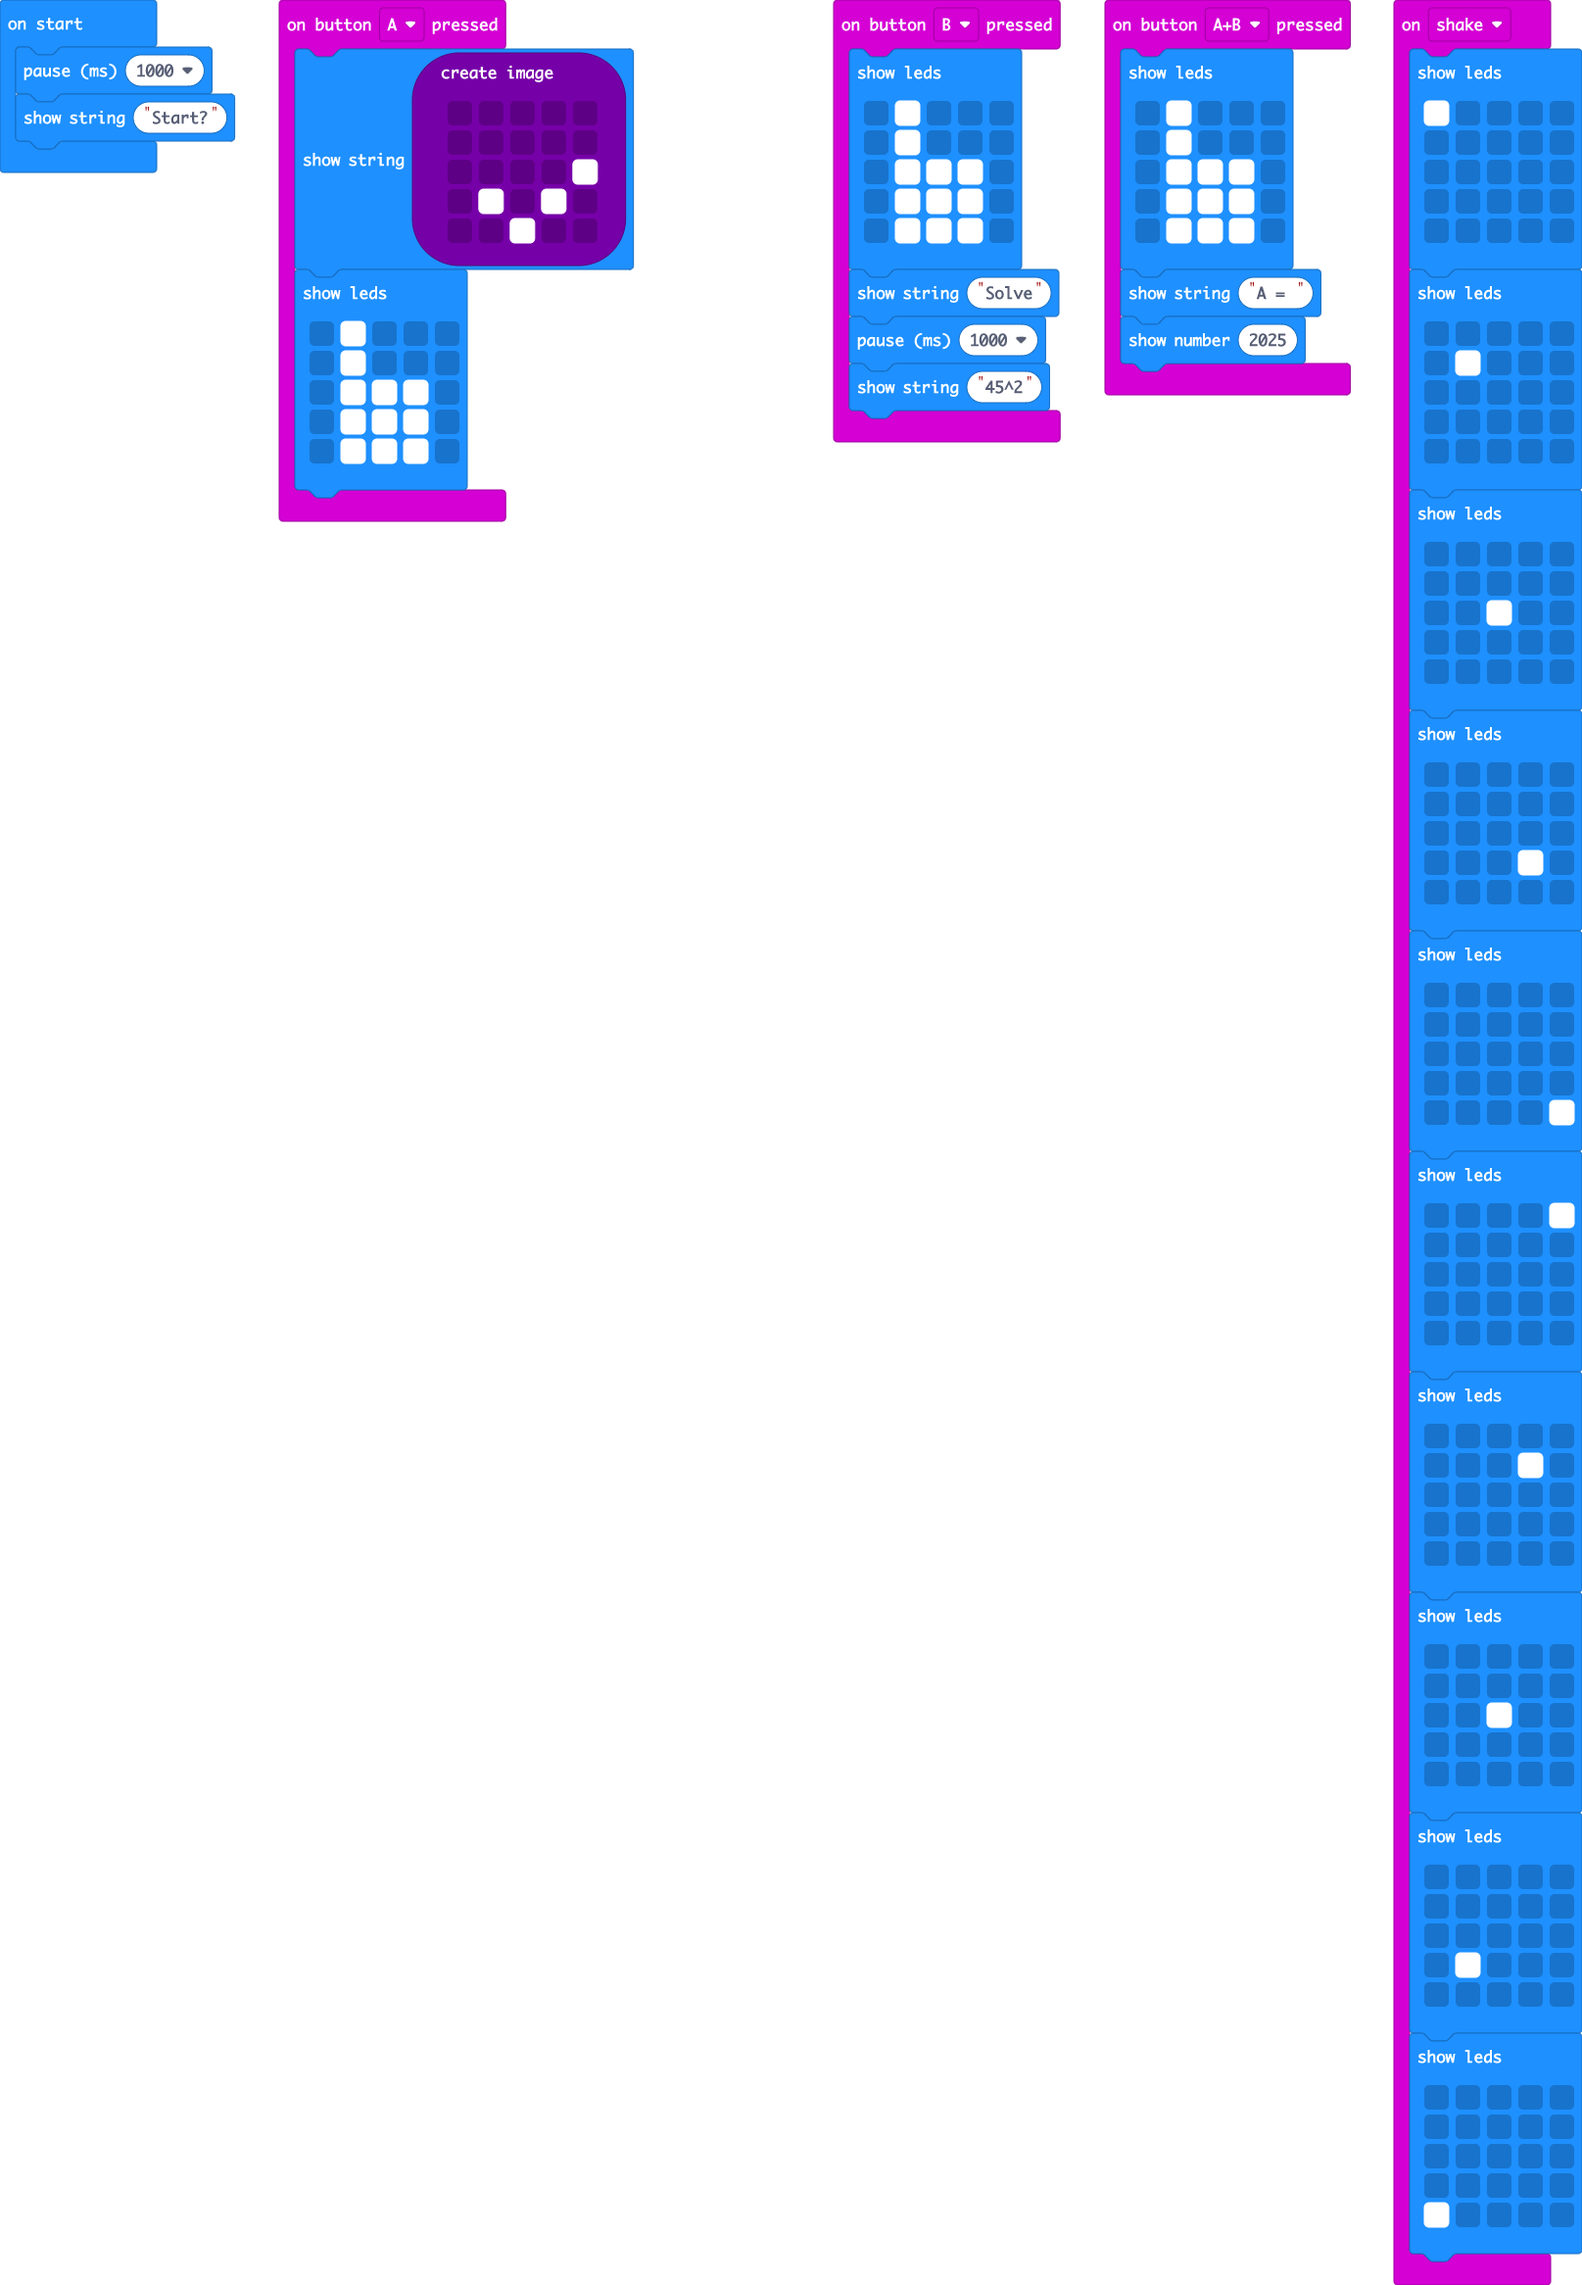
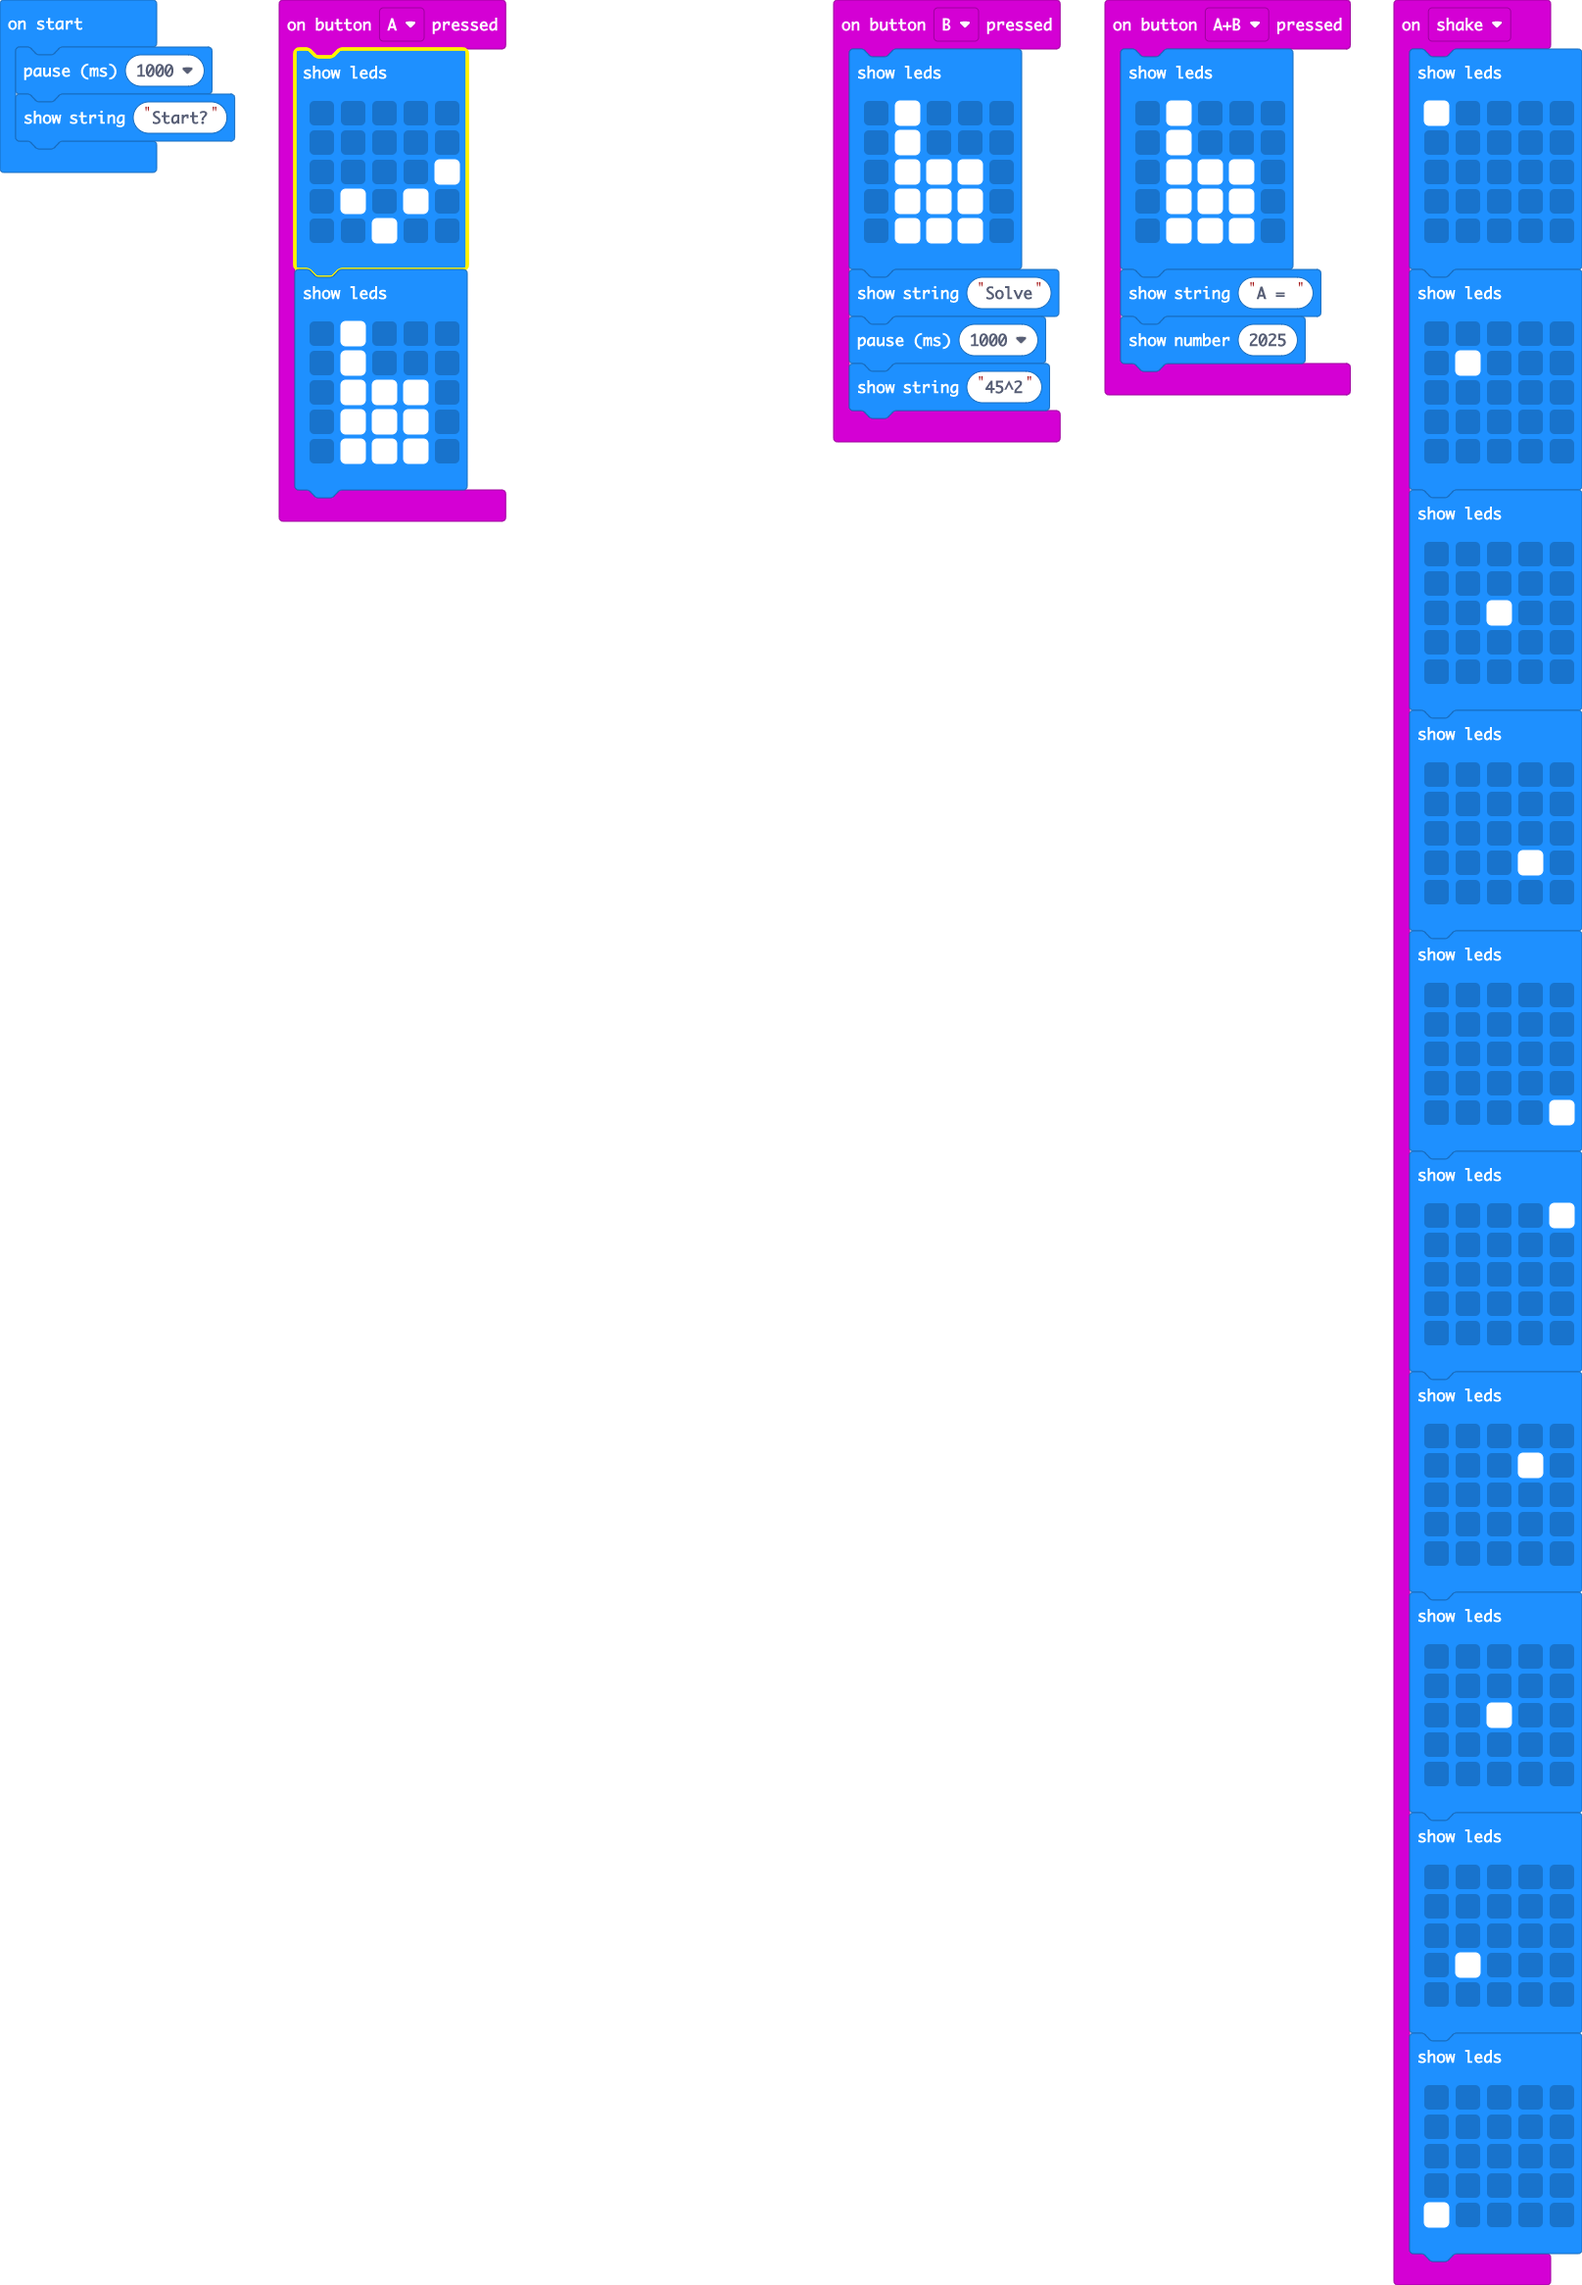
Update pxt.json, main.blocks, main.ts

Changed region(s): [[0.1858, 0.0, 0.4025, 0.1235]]

diff --git a/main.ts b/main.ts
@@ -1,11 +1,11 @@
 input.onButtonPressed(Button.A, function () {
-    basic.showString("" + (images.createImage(`
+    basic.showLeds(`
         . . . . .
         . . . . .
         . . . . #
         . # . # .
         . . # . .
-        `)))
+        `)
     basic.showLeds(`
         . # . . .
         . # . . .
